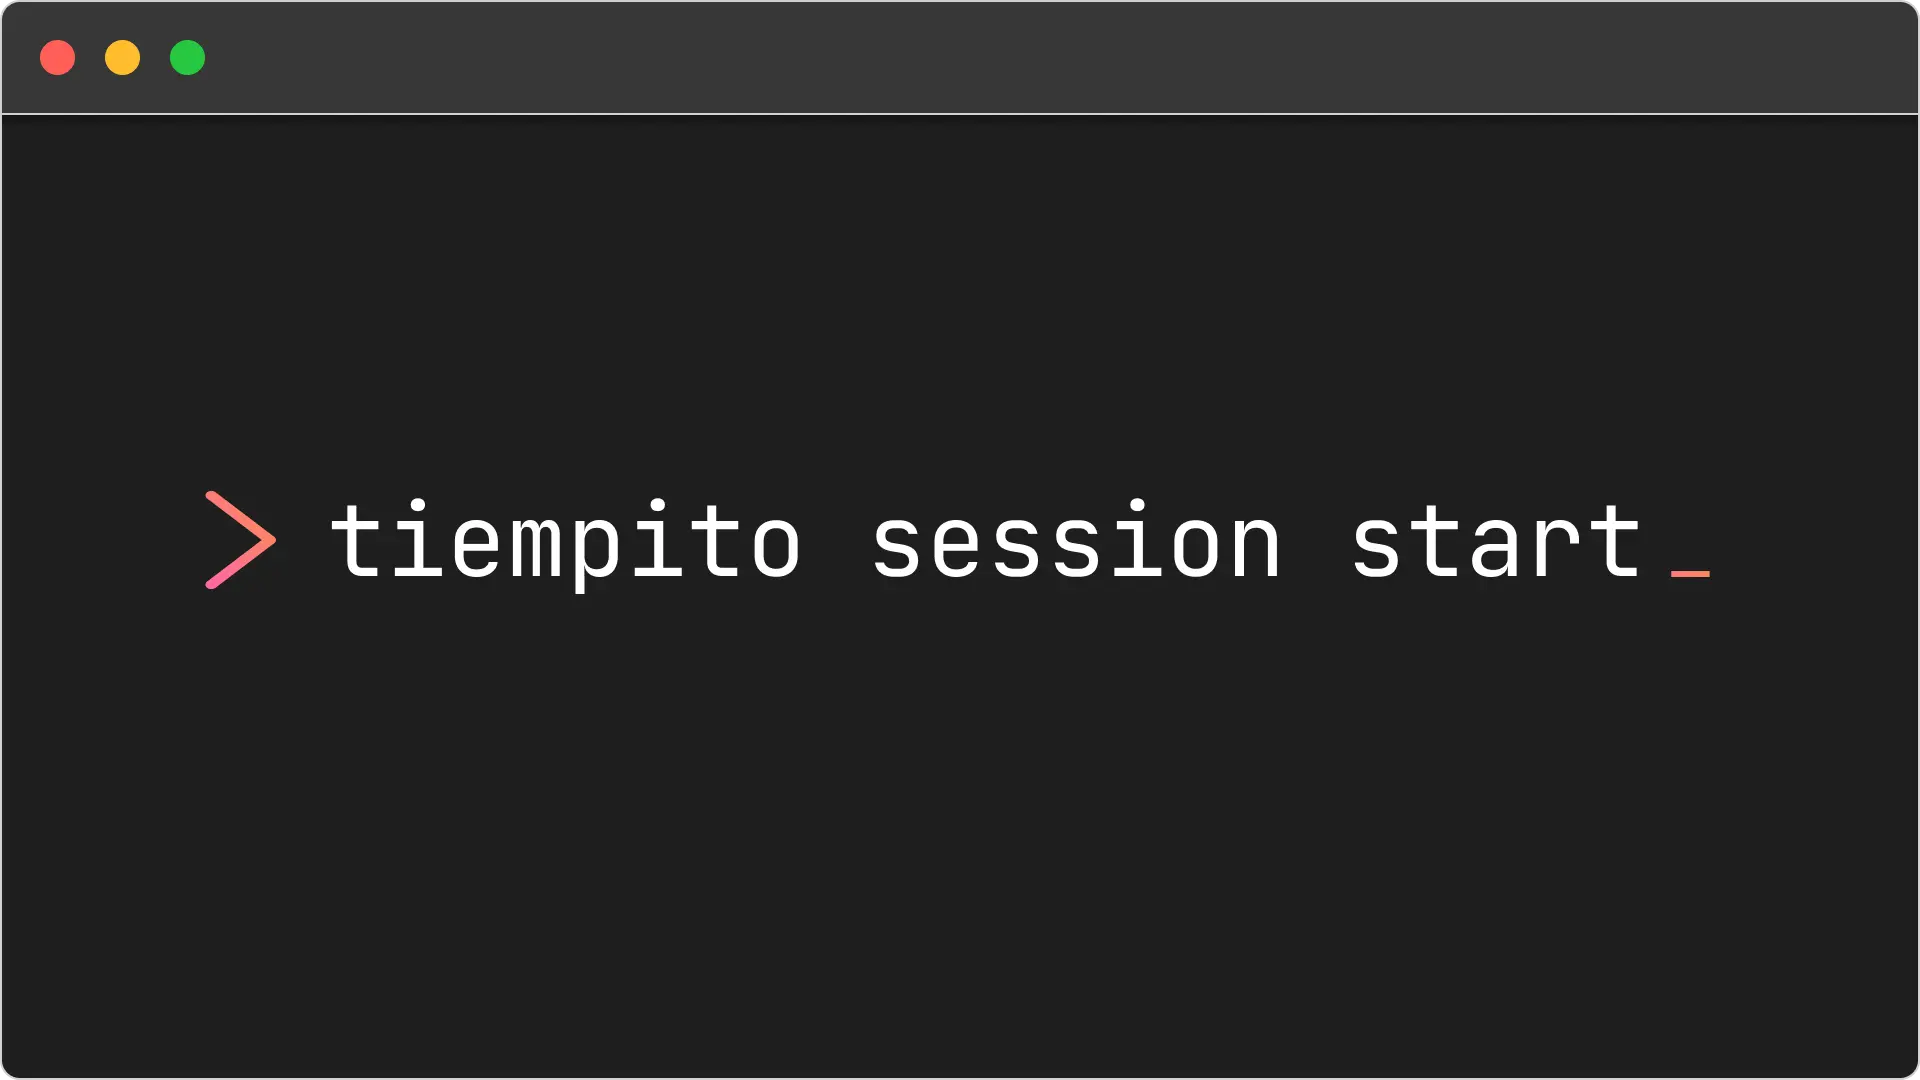
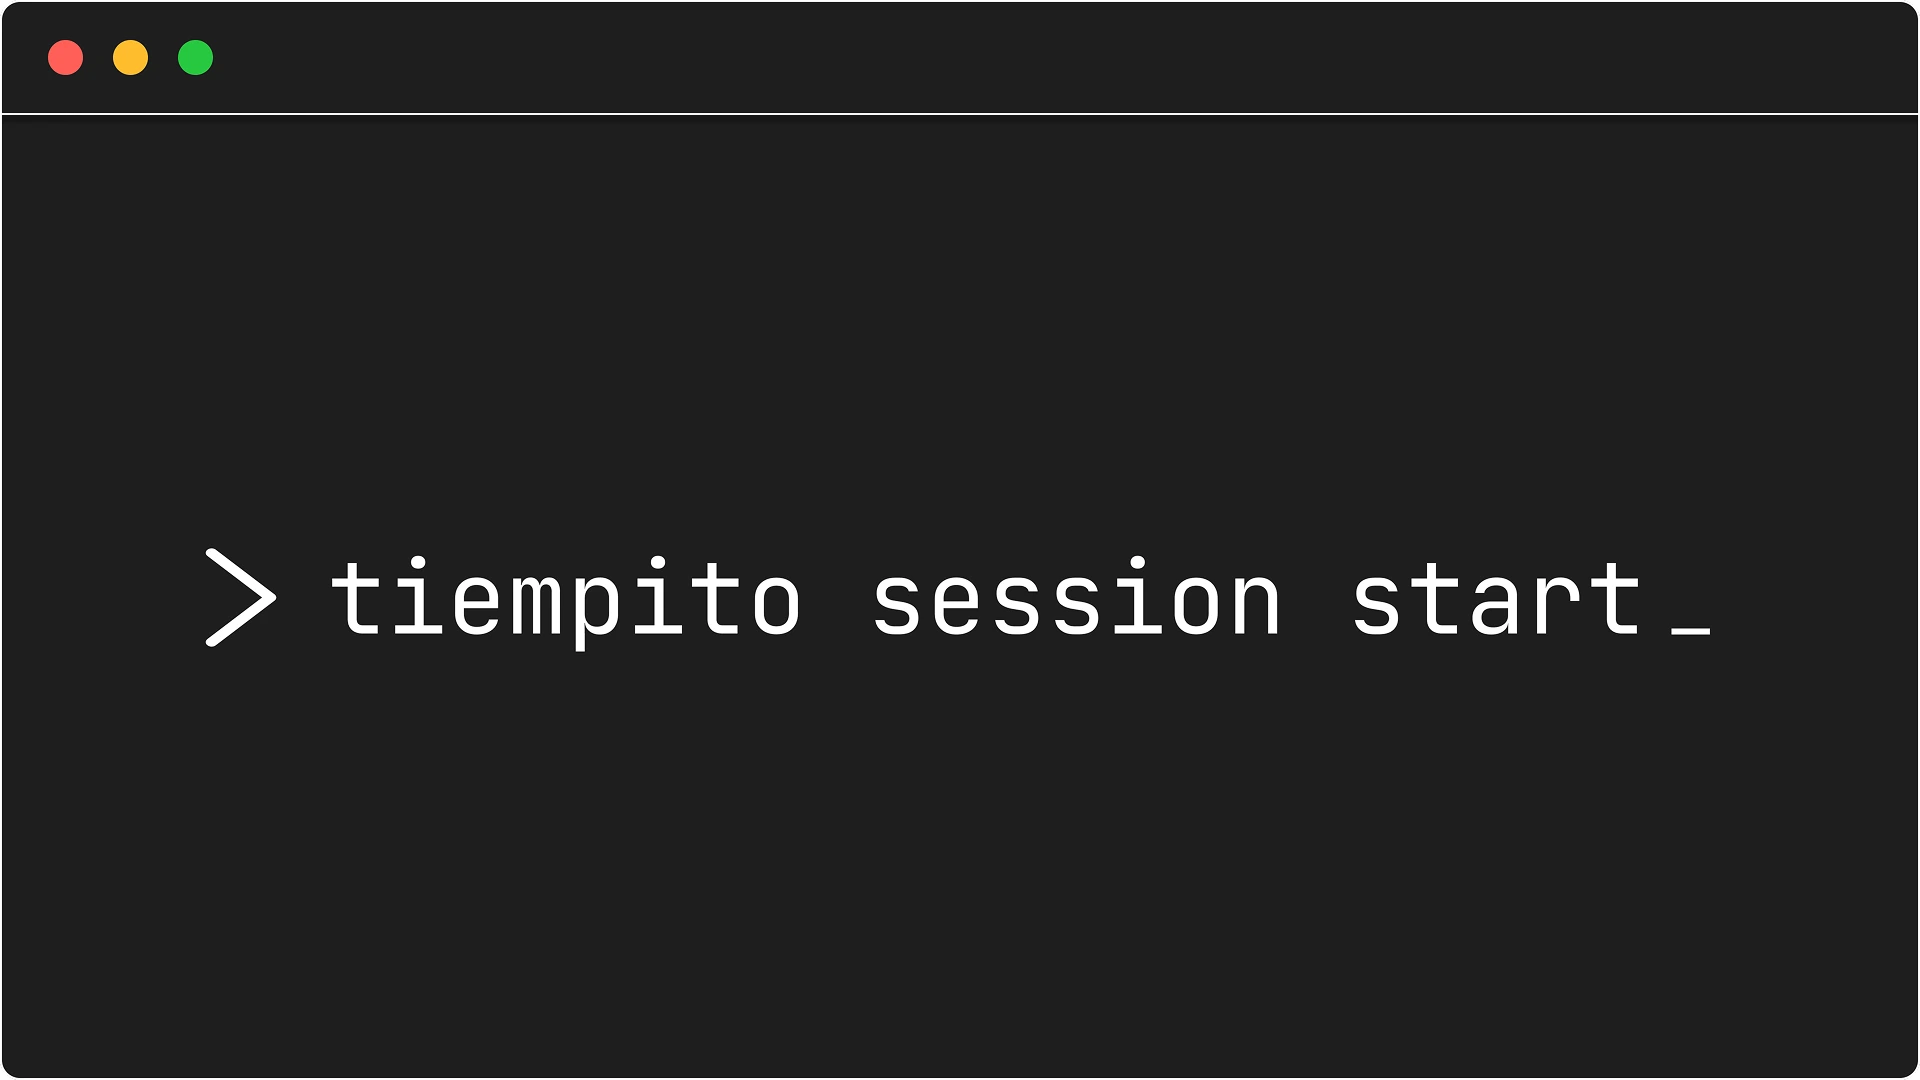
Merge pull request #52 from PabloStarOk/dev
v1.0.0

Pull request: v1.0.0

diff --git a/src/content/config.ts b/src/content/config.ts
@@ -50,7 +50,8 @@ const projects = defineCollection({
             title: z.string().max(70),
             situation: z.string().max(350),
             solution: z.string().max(350)
-        }))
+        })),
+        hasContent: z.boolean().default(true)
     })
 })
 